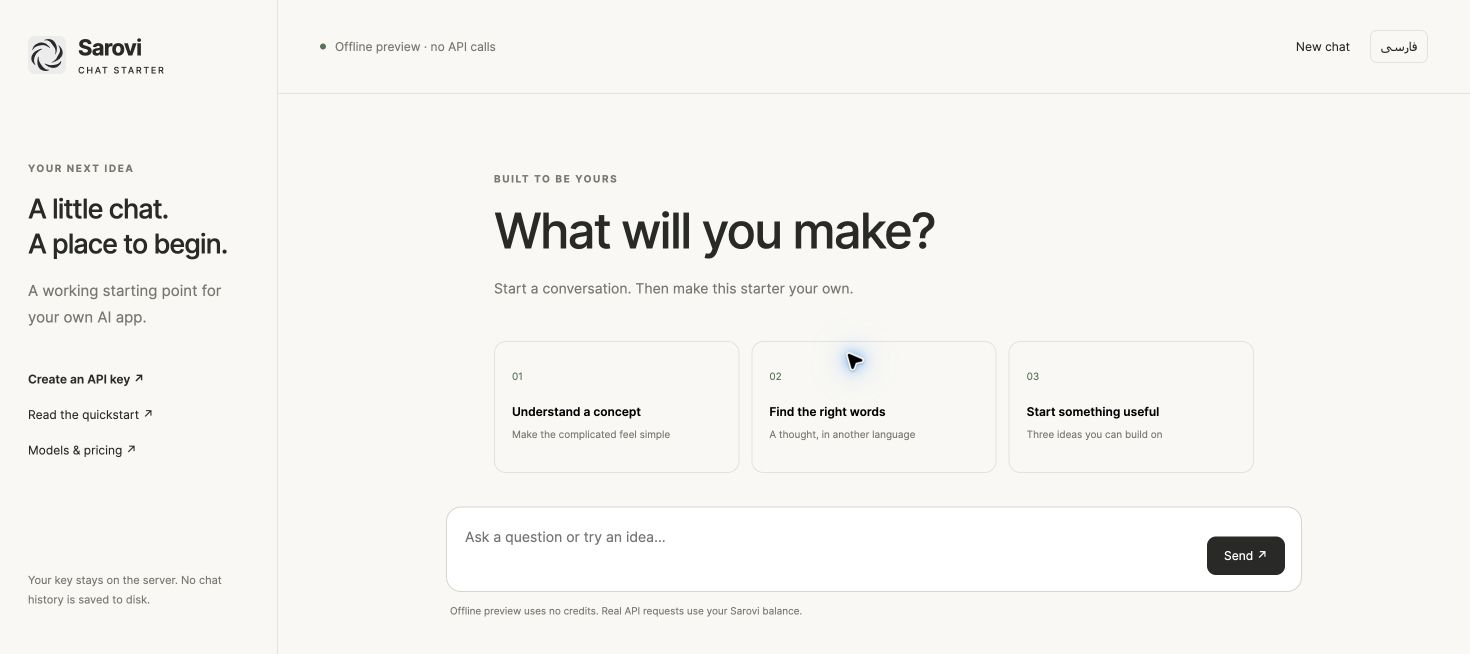
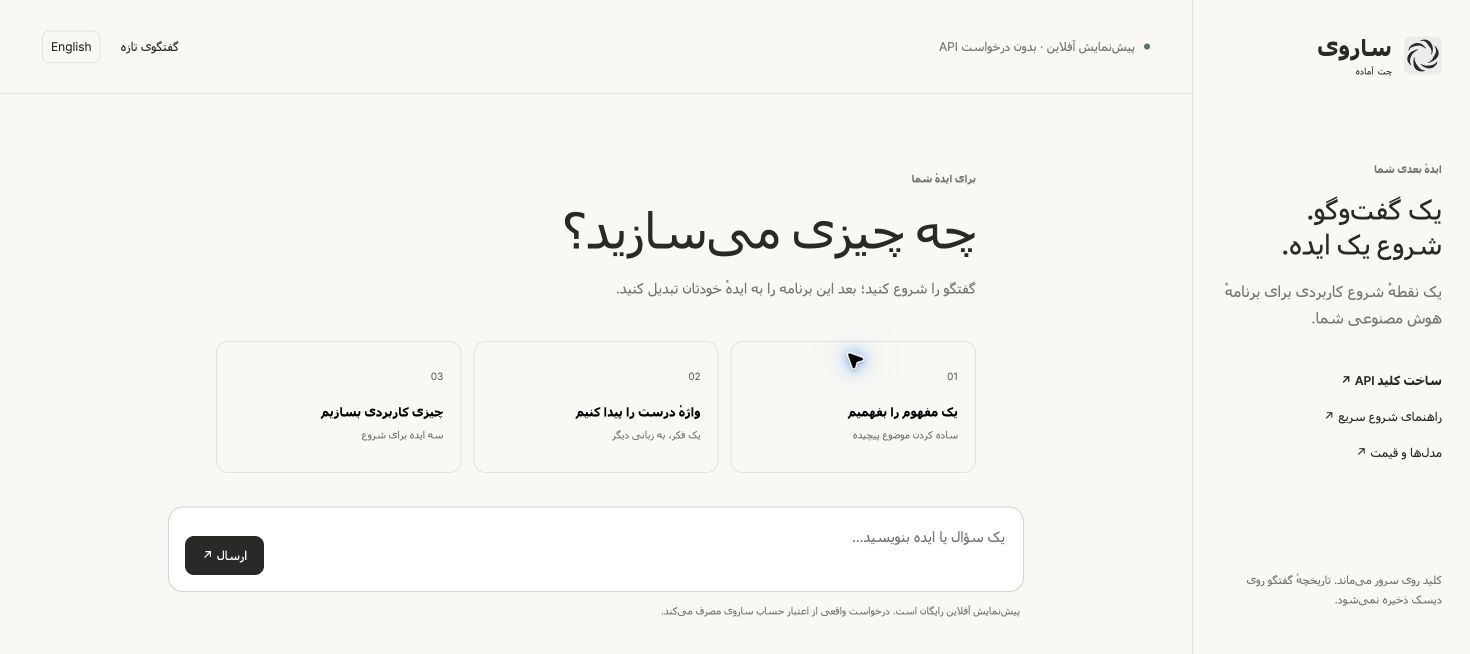
فارسیسازی معرفی، راهنماها و رابط پیشفرض

diff --git a/public/index.html b/public/index.html
@@ -1,41 +1,42 @@
 <!doctype html>
-<html lang="en" dir="ltr">
+<html lang="fa" dir="rtl">
 <head>
   <meta charset="utf-8"><meta name="viewport" content="width=device-width,initial-scale=1">
-  <title>Sarovi · Chat starter</title>
-  <meta name="description" content="A small bilingual streaming chat app built with the Sarovi API.">
+  <title>چت آمادهٔ ساروی</title>
+  <meta name="description" content="یک برنامهٔ چت فارسی با پاسخ زنده و API ساروی.">
   <link rel="icon" href="/mark.svg"><link rel="stylesheet" href="/style.css">
 </head>
 <body>
   <aside>
-    <a class="brand" href="/" aria-label="Sarovi chat home"><img src="/mark.svg" alt="" width="38" height="38"><strong>Sarovi<span>CHAT STARTER</span></strong></a>
-    <div class="side-copy"><span class="eyebrow" data-en="YOUR NEXT IDEA" data-fa="ایدهٔ بعدی شما">YOUR NEXT IDEA</span><h2 data-en="A little chat.&#10;A place to begin." data-fa="یک گفتوگو.&#10;شروع یک ایده.">A little chat.&#10;A place to begin.</h2><p data-en="A working starting point for your own AI app." data-fa="یک نقطهٔ شروع کاربردی برای برنامهٔ هوش مصنوعی شما.">A working starting point for your own AI app.</p></div>
-    <nav aria-label="Developer resources">
-      <a href="https://api.sarovi.site/developers/start?utm_source=github&utm_medium=organic&utm_campaign=developer_tools_202610&utm_content=chat_starter_key" target="_blank" rel="noopener" class="key-link" data-en="Create an API key ↗" data-fa="ساخت کلید API ↗">Create an API key ↗</a>
-      <a href="https://api.sarovi.site/developers/docs/quickstart?utm_source=github&utm_medium=organic&utm_campaign=developer_tools_202610&utm_content=chat_starter_docs" target="_blank" rel="noopener" data-en="Read the quickstart ↗" data-fa="راهنمای شروع سریع ↗">Read the quickstart ↗</a>
-      <a href="https://api.sarovi.site/developers/pricing?utm_source=github&utm_medium=organic&utm_campaign=developer_tools_202610&utm_content=chat_starter_pricing" target="_blank" rel="noopener" data-en="Models & pricing ↗" data-fa="مدلها و قیمت ↗">Models & pricing ↗</a>
+    <a class="brand" href="/" aria-label="خانهٔ چت ساروی"><img src="/mark.svg" alt="" width="38" height="38"><strong>ساروی<span>چت آماده</span></strong></a>
+    <div class="side-copy"><span class="eyebrow" data-en="YOUR NEXT IDEA" data-fa="ایدهٔ بعدی شما">ایدهٔ بعدی شما</span><h2 data-en="A little chat.&#10;A place to begin." data-fa="یک گفتوگو.&#10;شروع یک ایده.">یک گفتوگو.
+شروع یک ایده.</h2><p data-en="A working starting point for your own AI app." data-fa="یک نقطهٔ شروع کاربردی برای برنامهٔ هوش مصنوعی شما.">یک نقطهٔ شروع کاربردی برای برنامهٔ هوش مصنوعی شما.</p></div>
+    <nav aria-label="راهنمای توسعهدهندگان">
+      <a href="https://api.sarovi.site/developers/start?utm_source=github&utm_medium=organic&utm_campaign=developer_tools_202610&utm_content=chat_starter_key" target="_blank" rel="noopener" class="key-link" data-en="Create an API key ↗" data-fa="ساخت کلید API ↗">ساخت کلید API ↗</a>
+      <a href="https://api.sarovi.site/developers/docs/quickstart?utm_source=github&utm_medium=organic&utm_campaign=developer_tools_202610&utm_content=chat_starter_docs" target="_blank" rel="noopener" data-en="Read the quickstart ↗" data-fa="راهنمای شروع سریع ↗">راهنمای شروع سریع ↗</a>
+      <a href="https://api.sarovi.site/developers/pricing?utm_source=github&utm_medium=organic&utm_campaign=developer_tools_202610&utm_content=chat_starter_pricing" target="_blank" rel="noopener" data-en="Models & pricing ↗" data-fa="مدلها و قیمت ↗">مدلها و قیمت ↗</a>
     </nav>
-    <p class="side-foot" data-en="Your key stays on the server. No chat history is saved to disk." data-fa="کلید روی سرور میماند. تاریخچهٔ گفتگو روی دیسک ذخیره نمیشود.">Your key stays on the server. No chat history is saved to disk.</p>
+    <p class="side-foot" data-en="Your key stays on the server. No chat history is saved to disk." data-fa="کلید روی سرور میماند. تاریخچهٔ گفتگو روی دیسک ذخیره نمیشود.">کلید روی سرور میماند. تاریخچهٔ گفتگو روی دیسک ذخیره نمیشود.</p>
   </aside>
   <main>
-    <header><div><span class="dot"></span><span id="mode" role="status">Loading…</span></div><div class="header-actions"><button id="new-chat" class="quiet" data-en="New chat" data-fa="گفتگوی تازه">New chat</button><button id="language" class="language" aria-label="Switch language">فارسی</button></div></header>
-    <section class="conversation" aria-label="Chat">
+    <header><div><span class="dot"></span><span id="mode" role="status">در حال آمادهسازی…</span></div><div class="header-actions"><button id="new-chat" class="quiet" data-en="New chat" data-fa="گفتگوی تازه">گفتگوی تازه</button><button id="language" class="language" aria-label="تغییر زبان">English</button></div></header>
+    <section class="conversation" aria-label="گفتگو">
       <div id="welcome" class="welcome">
-        <span class="eyebrow" data-en="BUILT TO BE YOURS" data-fa="برای ایدهٔ شما">BUILT TO BE YOURS</span>
-        <h1 data-en="What will you make?" data-fa="چه چیزی میسازید؟">What will you make?</h1>
-        <p data-en="Start a conversation. Then make this starter your own." data-fa="گفتگو را شروع کنید؛ بعد این برنامه را به ایدهٔ خودتان تبدیل کنید.">Start a conversation. Then make this starter your own.</p>
+        <span class="eyebrow" data-en="BUILT TO BE YOURS" data-fa="برای ایدهٔ شما">برای ایدهٔ شما</span>
+        <h1 data-en="What will you make?" data-fa="چه چیزی میسازید؟">چه چیزی میسازید؟</h1>
+        <p data-en="Start a conversation. Then make this starter your own." data-fa="گفتگو را شروع کنید؛ بعد این برنامه را به ایدهٔ خودتان تبدیل کنید.">گفتگو را شروع کنید؛ بعد این برنامه را به ایدهٔ خودتان تبدیل کنید.</p>
         <div class="suggestions">
-          <button data-prompt-en="Explain API keys to someone building their first app." data-prompt-fa="کلید API را برای کسی که اولین برنامهاش را میسازد توضیح بده."><span>01</span><strong data-en="Understand a concept" data-fa="یک مفهوم را بفهمیم">Understand a concept</strong><small data-en="Make the complicated feel simple" data-fa="ساده کردن موضوع پیچیده">Make the complicated feel simple</small></button>
-          <button data-prompt-en="Translate into Persian: Good tools make room for better ideas." data-prompt-fa="این جمله را به انگلیسی ترجمه کن: ابزار خوب، جا را برای ایدهٔ بهتر باز میکند."><span>02</span><strong data-en="Find the right words" data-fa="واژهٔ درست را پیدا کنیم">Find the right words</strong><small data-en="A thought, in another language" data-fa="یک فکر، به زبانی دیگر">A thought, in another language</small></button>
-          <button data-prompt-en="Give me three small useful projects I can build with an AI API." data-prompt-fa="سه پروژهٔ کوچک و کاربردی پیشنهاد بده که با API هوش مصنوعی بسازم."><span>03</span><strong data-en="Start something useful" data-fa="چیزی کاربردی بسازیم">Start something useful</strong><small data-en="Three ideas you can build on" data-fa="سه ایده برای شروع">Three ideas you can build on</small></button>
+          <button data-prompt-en="Explain API keys to someone building their first app." data-prompt-fa="کلید API را برای کسی که اولین برنامهاش را میسازد توضیح بده."><span>01</span><strong data-en="Understand a concept" data-fa="یک مفهوم را بفهمیم">یک مفهوم را بفهمیم</strong><small data-en="Make the complicated feel simple" data-fa="ساده کردن موضوع پیچیده">ساده کردن موضوع پیچیده</small></button>
+          <button data-prompt-en="Translate into Persian: Good tools make room for better ideas." data-prompt-fa="این جمله را به انگلیسی ترجمه کن: ابزار خوب، جا را برای ایدهٔ بهتر باز میکند."><span>02</span><strong data-en="Find the right words" data-fa="واژهٔ درست را پیدا کنیم">واژهٔ درست را پیدا کنیم</strong><small data-en="A thought, in another language" data-fa="یک فکر، به زبانی دیگر">یک فکر، به زبانی دیگر</small></button>
+          <button data-prompt-en="Give me three small useful projects I can build with an AI API." data-prompt-fa="سه پروژهٔ کوچک و کاربردی پیشنهاد بده که با API هوش مصنوعی بسازم."><span>03</span><strong data-en="Start something useful" data-fa="چیزی کاربردی بسازیم">چیزی کاربردی بسازیم</strong><small data-en="Three ideas you can build on" data-fa="سه ایده برای شروع">سه ایده برای شروع</small></button>
         </div>
       </div>
-      <div id="messages" role="log" aria-label="Messages" aria-live="polite"></div>
+      <div id="messages" role="log" aria-label="پیامها" aria-live="polite"></div>
     </section>
     <div class="composer-wrap">
-      <label id="password-wrap" hidden><span data-en="App password" data-fa="رمز برنامه">App password</span><input id="password" type="password" autocomplete="off"></label>
-      <form id="composer"><label class="sr-only" for="prompt" data-en="Your message" data-fa="پیام شما">Your message</label><textarea id="prompt" rows="2" maxlength="4000" placeholder="Ask a question or try an idea…" required></textarea><button id="send" type="submit" data-en="Send ↗" data-fa="ارسال ↗">Send ↗</button><button id="stop" type="button" hidden data-en="Stop" data-fa="توقف">Stop</button></form>
-      <div class="below"><span id="hint">Offline preview uses no credits. Real API requests use your Sarovi balance.</span><span id="usage"></span></div>
+      <label id="password-wrap" hidden><span data-en="App password" data-fa="رمز برنامه">رمز برنامه</span><input id="password" type="password" autocomplete="off"></label>
+      <form id="composer"><label class="sr-only" for="prompt" data-en="Your message" data-fa="پیام شما">پیام شما</label><textarea id="prompt" rows="2" maxlength="4000" placeholder="یک سؤال یا ایده بنویسید…" required></textarea><button id="send" type="submit" data-en="Send ↗" data-fa="ارسال ↗">ارسال ↗</button><button id="stop" type="button" hidden data-en="Stop" data-fa="توقف">توقف</button></form>
+      <div class="below"><span id="hint">پیشنمایش آفلاین رایگان است. درخواست واقعی از اعتبار حساب ساروی مصرف میکند.</span><span id="usage"></span></div>
       <p id="notice" role="status"></p>
     </div>
   </main>

diff --git a/public/app.js b/public/app.js
@@ -1,5 +1,5 @@
 const $ = id => document.getElementById(id);
-let locale = 'en', config, history = [], controller, busy = false;
+let locale = 'fa', config, history = [], controller, busy = false;
 function translate() {
   document.documentElement.lang = locale;
   document.documentElement.dir = locale === 'fa' ? 'rtl' : 'ltr';
@@ -11,7 +11,7 @@ function translate() {
 }
 function message(role, text) {
   const row = document.createElement('div'); row.className = 'message ' + role;
-  const label = document.createElement('span'); label.className = 'who'; label.textContent = role === 'user' ? (locale === 'en' ? 'YOU' : 'شما') : 'SAROVI';
+  const label = document.createElement('span'); label.className = 'who'; label.textContent = role === 'user' ? (locale === 'en' ? 'YOU' : 'شما') : 'ساروی';
   const body = document.createElement('div'); body.dir = 'auto'; body.textContent = text;
   row.append(label, body); $('messages').append(row); return {row, body};
 }
@@ -54,23 +54,25 @@ $('composer').onsubmit = async event => {
     const response = await fetch('/api/chat', {method: 'POST', signal: controller.signal,
       headers: {'Content-Type': 'application/json', ...($('password').value ? {'X-App-Password': $('password').value} : {})},
       body: JSON.stringify({messages: next})});
-    if (!response.ok) { const data = await response.json(); throw new Error(data.error || 'Request failed.'); }
+    if (!response.ok) { const data = await response.json(); throw new Error(data.error || (locale === 'fa' ? 'درخواست انجام نشد.' : 'Request failed.')); }
     for await (const item of events(response.body)) {
       if (item.type === 'start') key = item.idempotency_key;
       if (item.type === 'receipt') requestId = item.request_id;
       if (item.type === 'delta') { reply.body.textContent += item.text; scrollEnd(); }
       if (item.type === 'error') { requestId = item.request_id || requestId; throw new Error(item.message); }
-      if (item.type === 'done') { completed = true; $('usage').textContent = item.demo ? 'DEMO' : (item.usage?.total_tokens ?? '—') + ' tokens'; }
+      if (item.type === 'done') { completed = true; $('usage').textContent = item.demo ? (locale === 'fa' ? 'نمایشی' : 'DEMO') : (item.usage?.total_tokens ?? '—') + (locale === 'fa' ? ' توکن' : ' tokens'); }
     }
     if (!completed) throw new Error(locale === 'en' ? 'The response ended early.' : 'پاسخ پیش از پایان قطع شد.');
     history = [...next, {role: 'assistant', content: reply.body.textContent}];
   } catch (error) {
     reply.row.classList.add('error');
     $('notice').textContent = (error.name === 'AbortError' ? (locale === 'en' ? 'Stopped. No automatic retry was made.' : 'متوقف شد. درخواست خودکار تکرار نشده است.') : error.message) +
-      (requestId ? ' · Request: ' + requestId : '') + (key ? ' · Idempotency: ' + key : '');
+      (requestId ? ' · درخواست: ' + requestId : '') + (key ? ' · کلید پیگیری: ' + key : '');
     if (!reply.body.textContent) reply.body.textContent = locale === 'en' ? 'No complete response.' : 'پاسخ کامل دریافت نشد.';
   } finally { setBusy(false); $('prompt').focus(); scrollEnd(); }
 };
 fetch('/api/config').then(r => { if (!r.ok) throw new Error(); return r.json(); }).then(data => {
   config = data; $('password-wrap').hidden = !data.requiresPassword; translate();
-}).catch(() => { $('mode').textContent = 'App unavailable'; $('notice').textContent = 'The local app could not load its configuration.'; });
+}).catch(() => { $('mode').textContent = 'برنامه در دسترس نیست'; $('notice').textContent = 'تنظیمات برنامهٔ محلی بارگذاری نشد.'; });
+
+translate();

diff --git a/README.md b/README.md
@@ -1,14 +1,14 @@
-# Sarovi AI chat starter
+# چت آماده با API ساروی
 
-A small working chat app with streaming replies, Persian/English UI, a server-side API key, and an offline preview. Plain Node.js, HTML, CSS, and JavaScript. No frontend build step or runtime package dependencies.
+یک برنامهٔ چت کوچک و کاربردی با پاسخ زنده، رابط فارسی، کلید روی سرور و پیشنمایش آفلاین؛ با Node.js، HTML، CSS و JavaScript، بدون مرحلهٔ ساخت رابط یا کتابخانهٔ اضافی.
 
-[فارسی](README.fa.md) · [Create an API key](https://api.sarovi.site/developers/start?utm_source=github&utm_medium=organic&utm_campaign=developer_tools_202610&utm_content=sarovi-ai-chat-starter_key) · [Pricing](https://api.sarovi.site/developers/pricing?utm_source=github&utm_medium=organic&utm_campaign=developer_tools_202610&utm_content=sarovi-ai-chat-starter_pricing)
+[ساخت کلید API](https://api.sarovi.site/developers/start?utm_source=github&utm_medium=organic&utm_campaign=developer_tools_202610&utm_content=sarovi-ai-chat-starter_key_fa) · [مدلها و قیمتها](https://api.sarovi.site/developers/pricing?utm_source=github&utm_medium=organic&utm_campaign=developer_tools_202610&utm_content=sarovi-ai-chat-starter_pricing_fa) · [اولین درخواست](https://api.sarovi.site/developers/start?utm_source=github&utm_medium=organic&utm_campaign=developer_tools_202610&utm_content=sarovi-ai-chat-starter_first_request_fa)
 
-![Offline chat starter preview](docs/preview.png)
+![پیشنمایش فارسی برنامه](docs/preview.png)
 
-## Try the offline preview
+## اول آفلاین امتحان کنید
 
-Node.js 24+ is required.
+Node.js نسخهٔ ۲۴ به بالا لازم است.
 
 ```sh
 git clone https://github.com/sarovi-developers/sarovi-ai-chat-starter.git
@@ -16,32 +16,32 @@ cd sarovi-ai-chat-starter
 npm run demo
 ```
 
-Open [http://127.0.0.1:3317](http://127.0.0.1:3317). Switch to فارسی, try a prompt, or stop a streaming reply. Demo responses are clearly labeled and make no model calls.
+نشانی [http://127.0.0.1:3317](http://127.0.0.1:3317) را باز کنید. پاسخهای نمایشی ساختگی و مشخصاند؛ به مدل درخواست نمیفرستند و اعتبار مصرف نمیکنند. رابط با فارسی و چیدمان راستبهچپ باز میشود؛ تغییر زبان هم در دسترس است.
 
-## Connect your account
+## اتصال حساب ساروی
 
 ```sh
 cp .env.example .env
-# Edit .env and set SAROVI_API_KEY.
+# کلید خصوصی ساروی را در .env وارد کنید.
 npm start
 ```
 
-The key needs `responses:write`. Check the current model ID and pricing, and set a small API key/project budget in the Sarovi console. Each reply allows up to 512 output tokens; this is not a monetary cap.
+کلید به دسترسی `responses:write` نیاز دارد. شناسهٔ فعلی مدل و قیمت آن را بررسی کنید و در کنسول ساروی برای کلید یا پروژه سقف مصرف کوچکی بگذارید. هر پاسخ حداکثر ۵۱۲ توکن خروجی دارد؛ این عدد سقف پولی نیست.
 
-The API key stays on the Node server. Conversation context stays in browser memory and is cleared by New chat or a page reload. Real prompts are sent to Sarovi and its model provider; API retention follows your account/provider settings.
+کلید روی سرور Node میماند و به کد مرورگر فرستاده نمیشود. تاریخچه در حافظهٔ صفحه نگه داشته میشود و با گفتگوی تازه یا بارگذاری مجدد پاک میشود. در حالت واقعی، پیامها به ساروی و ارائهدهندهٔ مدل ارسال میشوند؛ نگهداری داده به تنظیمات پروژه و ارائهدهنده بستگی دارد.
 
-## What is included
+## امکانات نمونه
 
-- Responsive UI with Persian RTL and English.
-- Stream stop, errors, request references, and token usage when supplied.
-- No automatic paid retries or generation on page load.
-- Bound conversation size, two concurrent requests, and ten requests per minute per connection IP.
-- Same-origin and Host checks; no key in public assets or config responses.
-- Rendering as text, so model-generated HTML is not executed.
+- رابط مناسب موبایل و رایانه، با فارسی و چیدمان راستبهچپ.
+- توقف پاسخ زنده، نمایش خطا و شناسهٔ پیگیری و تعداد توکن در صورت دریافت.
+- بدون تولید پاسخ هنگام باز شدن صفحه یا تکرار خودکار درخواست پولی.
+- زمینهٔ گفتگو محدود، حداکثر دو درخواست همزمان و ده درخواست در دقیقه برای هر IP اتصال.
+- بررسی میزبان و مبدأ درخواست؛ کلید در فایل عمومی یا پاسخ تنظیمات نیست.
+- نمایش پاسخ مدل بهصورت متن؛ کد HTML تولیدشده اجرا نمیشود.
 
-## Hosting
+## اجرای اینترنتی
 
-For internet hosting, keep HTTPS in front of the app and configure server-side environment variables:
+برای اجرای اینترنتی، HTTPS را جلوی برنامه قرار دهید و متغیرهای سمت سرور را تنظیم کنید:
 
 ```text
 HOST=0.0.0.0
@@ -50,16 +50,16 @@ PUBLIC_ORIGIN=https://YOUR_APP_DOMAIN
 APP_PASSWORD=YOUR_OWN_LONG_RANDOM_PASSWORD
 ```
 
-Hosted mode requires an app password of at least 16 characters. Enter it in the app; it is held in the page, not local storage. Keep it private. The built-in counters are per process and reset on restart; add shared user authentication and durable rate/budget controls before scaling a public service. No hosting service is provisioned automatically. [Sarovi Cloud](https://cloud.sarovi.ir) is available for your own deployment workflow.
+در حالت میزبانی، رمز برنامه باید حداقل ۱۶ نویسه داشته باشد. رمز را در رابط وارد کنید؛ در حافظهٔ صفحه میماند و در ذخیرهسازی محلی مرورگر ثبت نمیشود. شمارندههای سادهٔ این نمونه برای هر پردازش جدا هستند و با راهاندازی مجدد صفر میشوند. پیش از رشد یک سرویس عمومی، احراز هویت کاربران و محدودیت مصرف پایدار اضافه کنید. این مخزن خودکار سرویس میزبانی ایجاد نمیکند؛ [ابر ساروی](https://cloud.sarovi.ir) برای گردش کار میزبانی در دسترس است.
 
-## Checks
+## بررسی کد
 
 ```sh
 npm test
 ```
 
-Offline HTTP tests check key exposure, cross-origin/Host denial, app-password gating, bounded input, and premature upstream termination. They do not certify every live model.
+آزمونهای HTTP آفلاین، افشای کلید، رد مبدأ و میزبان نامعتبر، رمز برنامه، محدودیت ورودی و پایان ناقص پاسخ را بررسی میکنند. همهٔ مدلهای زنده با این آزمونها تأیید نشدهاند.
 
-[First API request guide](https://api.sarovi.site/developers/start?utm_source=github&utm_medium=organic&utm_campaign=developer_tools_202610&utm_content=sarovi-ai-chat-starter_first_request) · [More recipes](https://github.com/sarovi-developers/sarovi-api-cookbook) · [API behavior and billing](docs/API-NOTES.md)
+[نمونهکدهای بیشتر](https://github.com/sarovi-developers/sarovi-api-cookbook) · [رفتار API و هزینه](docs/API-NOTES.md)
 
-MIT-licensed code; API usage is billed separately. The Sarovi logo remains brand artwork.
+کد با مجوز [MIT](LICENSE.fa.md) منتشر شده است؛ مصرف API جداگانه محاسبه میشود و حقوق نشان ساروی جداست.

diff --git a/README.fa.md b/README.fa.md
@@ -1,12 +1,14 @@
 # چت آماده با API ساروی
 
-یک برنامهٔ چت کوچک و کاربردی: پاسخ زنده، رابط فارسی و انگلیسی، کلید روی سرور و پیشنمایش آفلاین.
+یک برنامهٔ چت کوچک و کاربردی با پاسخ زنده، رابط فارسی، کلید روی سرور و پیشنمایش آفلاین؛ با Node.js، HTML، CSS و JavaScript، بدون مرحلهٔ ساخت رابط یا کتابخانهٔ اضافی.
 
-[English](README.md) · [ساخت کلید API](https://api.sarovi.site/developers/start?utm_source=github&utm_medium=organic&utm_campaign=developer_tools_202610&utm_content=sarovi-ai-chat-starter_key_fa) · [قیمتها](https://api.sarovi.site/developers/pricing?utm_source=github&utm_medium=organic&utm_campaign=developer_tools_202610&utm_content=sarovi-ai-chat-starter_pricing_fa)
+[ساخت کلید API](https://api.sarovi.site/developers/start?utm_source=github&utm_medium=organic&utm_campaign=developer_tools_202610&utm_content=sarovi-ai-chat-starter_key_fa) · [مدلها و قیمتها](https://api.sarovi.site/developers/pricing?utm_source=github&utm_medium=organic&utm_campaign=developer_tools_202610&utm_content=sarovi-ai-chat-starter_pricing_fa) · [اولین درخواست](https://api.sarovi.site/developers/start?utm_source=github&utm_medium=organic&utm_campaign=developer_tools_202610&utm_content=sarovi-ai-chat-starter_first_request_fa)
 
-![پیشنمایش فارسی روی موبایل](docs/mobile-fa.png)
+![پیشنمایش فارسی برنامه](docs/preview.png)
 
-Node.js نسخهٔ ۲۴ به بالا لازم است؛ نصب کتابخانهٔ اضافی نیاز ندارد.
+## اول آفلاین امتحان کنید
+
+Node.js نسخهٔ ۲۴ به بالا لازم است.
 
 ```sh
 git clone https://github.com/sarovi-developers/sarovi-ai-chat-starter.git
@@ -14,14 +16,50 @@ cd sarovi-ai-chat-starter
 npm run demo
 ```
 
-نشانی `http://127.0.0.1:3317` را باز کنید. demo پاسخ ساختگی و مشخص دارد؛ درخواستی به مدل ارسال نمیشود و اعتبار مصرف نمیکند.
+نشانی [http://127.0.0.1:3317](http://127.0.0.1:3317) را باز کنید. پاسخهای نمایشی ساختگی و مشخصاند؛ به مدل درخواست نمیفرستند و اعتبار مصرف نمیکنند. رابط با فارسی و چیدمان راستبهچپ باز میشود؛ تغییر زبان هم در دسترس است.
 
-برای پاسخ واقعی، `.env.example` را به `.env` کپی کنید، کلید خصوصی ساروی را در آن بگذارید و `npm start` را اجرا کنید. دسترسی `responses:write` و سقف مصرف مناسب را در کنسول تنظیم کنید.
+## اتصال حساب ساروی
 
-تاریخچه در حافظهٔ همین صفحه میماند؛ با گفتگوی تازه یا بارگذاری مجدد پاک میشود. در حالت واقعی، پیامها به ساروی و ارائهدهندهٔ مدل فرستاده میشوند. کلید به کد مرورگر یا GitHub منتقل نمیشود.
+```sh
+cp .env.example .env
+# کلید خصوصی ساروی را در .env وارد کنید.
+npm start
+```
 
-دکمهٔ توقف، شناسهٔ پیگیری و خطای پاسخ ناقص آمادهاند. درخواست پولی خودکار تکرار نمیشود. پیش از استفادهٔ اینترنتی، [تنظیمات HTTPS و رمز برنامه](README.md#hosting) را انجام دهید. شمارندهٔ سادهٔ این نمونه جای احراز هویت و سقف مصرف پایدار یک سرویس عمومی را نمیگیرد.
+کلید به دسترسی `responses:write` نیاز دارد. شناسهٔ فعلی مدل و قیمت آن را بررسی کنید و در کنسول ساروی برای کلید یا پروژه سقف مصرف کوچکی بگذارید. هر پاسخ حداکثر ۵۱۲ توکن خروجی دارد؛ این عدد سقف پولی نیست.
 
-`npm test` آزمونهای آفلاین را اجرا میکند. [راهنمای اولین درخواست](https://api.sarovi.site/developers/start?utm_source=github&utm_medium=organic&utm_campaign=developer_tools_202610&utm_content=sarovi-ai-chat-starter_first_request_fa) · [نمونهکدهای بیشتر](https://github.com/sarovi-developers/sarovi-api-cookbook)
+کلید روی سرور Node میماند و به کد مرورگر فرستاده نمیشود. تاریخچه در حافظهٔ صفحه نگه داشته میشود و با گفتگوی تازه یا بارگذاری مجدد پاک میشود. در حالت واقعی، پیامها به ساروی و ارائهدهندهٔ مدل ارسال میشوند؛ نگهداری داده به تنظیمات پروژه و ارائهدهنده بستگی دارد.
 
-مجوز کد MIT است؛ مصرف API جداگانه محاسبه میشود.
+## امکانات نمونه
+
+- رابط مناسب موبایل و رایانه، با فارسی و چیدمان راستبهچپ.
+- توقف پاسخ زنده، نمایش خطا و شناسهٔ پیگیری و تعداد توکن در صورت دریافت.
+- بدون تولید پاسخ هنگام باز شدن صفحه یا تکرار خودکار درخواست پولی.
+- زمینهٔ گفتگو محدود، حداکثر دو درخواست همزمان و ده درخواست در دقیقه برای هر IP اتصال.
+- بررسی میزبان و مبدأ درخواست؛ کلید در فایل عمومی یا پاسخ تنظیمات نیست.
+- نمایش پاسخ مدل بهصورت متن؛ کد HTML تولیدشده اجرا نمیشود.
+
+## اجرای اینترنتی
+
+برای اجرای اینترنتی، HTTPS را جلوی برنامه قرار دهید و متغیرهای سمت سرور را تنظیم کنید:
+
+```text
+HOST=0.0.0.0
+PORT=8080
+PUBLIC_ORIGIN=https://YOUR_APP_DOMAIN
+APP_PASSWORD=YOUR_OWN_LONG_RANDOM_PASSWORD
+```
+
+در حالت میزبانی، رمز برنامه باید حداقل ۱۶ نویسه داشته باشد. رمز را در رابط وارد کنید؛ در حافظهٔ صفحه میماند و در ذخیرهسازی محلی مرورگر ثبت نمیشود. شمارندههای سادهٔ این نمونه برای هر پردازش جدا هستند و با راهاندازی مجدد صفر میشوند. پیش از رشد یک سرویس عمومی، احراز هویت کاربران و محدودیت مصرف پایدار اضافه کنید. این مخزن خودکار سرویس میزبانی ایجاد نمیکند؛ [ابر ساروی](https://cloud.sarovi.ir) برای گردش کار میزبانی در دسترس است.
+
+## بررسی کد
+
+```sh
+npm test
+```
+
+آزمونهای HTTP آفلاین، افشای کلید، رد مبدأ و میزبان نامعتبر، رمز برنامه، محدودیت ورودی و پایان ناقص پاسخ را بررسی میکنند. همهٔ مدلهای زنده با این آزمونها تأیید نشدهاند.
+
+[نمونهکدهای بیشتر](https://github.com/sarovi-developers/sarovi-api-cookbook) · [رفتار API و هزینه](docs/API-NOTES.md)
+
+کد با مجوز [MIT](LICENSE.fa.md) منتشر شده است؛ مصرف API جداگانه محاسبه میشود و حقوق نشان ساروی جداست.

diff --git a/docs/API-NOTES.md b/docs/API-NOTES.md
@@ -1,13 +1,13 @@
-# API notes
+# نکتههای اتصال و مصرف API
 
-Base URL: `https://api.sarovi.site/v1`. The original `https://api.sarovi.ir/v1` also works; choose one origin for a logical request. Use a Sarovi project key with `responses:write` and `models:read`. Receipt lookup additionally needs `usage:read`.
+نشانی پایه `https://api.sarovi.site/v1` است؛ `https://api.sarovi.ir/v1` هم کار میکند. برای هر درخواست منطقی، یکی از این نشانیها را انتخاب کنید. کلید پروژه باید دسترسی `responses:write` و برای فهرست مدلها `models:read` داشته باشد. پیگیری مصرف درخواست به `usage:read` نیاز دارد.
 
-The examples default to `z-ai/glm-5.3-flash`, present in the public API contract checked on 23 October 2026. Model availability, features, and pricing can change. Check `GET /v1/models` and the developer pricing page before a real run. Token limits bound output tokens, not a guaranteed monetary amount. Use a small project/key budget in the Sarovi console.
+مدل پیشفرض `z-ai/glm-5.3-flash` از قرارداد عمومی API بررسیشده در ۲۳ اکتبر ۲۰۲۶ انتخاب شده است. موجود بودن مدل، قابلیتها و قیمت میتواند تغییر کند. پیش از اجرای واقعی، `GET /v1/models` و صفحهٔ قیمتها را بررسی کنید. محدودیت توکن، سقف پولی نیست؛ در کنسول ساروی برای پروژه یا کلید سقف مصرف کوچکی بگذارید.
 
-Every paid operation has an `Idempotency-Key`. There are no automatic paid retries. If a response is lost, inspect the original request receipt instead of inventing a fresh key. JSON replay is documented for 24 hours and responses below 1 MB; an empty lookup result is not proof that the original operation was uncharged. A second model/tool round is a distinct operation.
+هر عملیات پولی یک `Idempotency-Key` دارد و خودکار تکرار نمیشود. اگر پاسخ قطع شد، مصرف همان درخواست را با کلید اصلی پیگیری کنید؛ ساختن کلید تازه به معنی عملیات تازه است. طبق مستندات، بازپخش پاسخ JSON برای ۲۴ ساعت و پاسخهای کوچکتر از ۱ مگابایت پشتیبانی میشود. نتیجهٔ خالی در پیگیری، ثابت نمیکند درخواست قبلی رایگان بوده است. دور دوم مدل پس از فراخوانی ابزار، یک درخواست مستقل است.
 
-HTTP 200 alone is not proof that generation completed. Streaming examples require the terminal marker and inspect the finish reason. Provider failures and truncated output remain errors. Reported tokens are not a reconstruction of the settled credit charge; use the Sarovi usage console for billing.
+وضعیت HTTP 200 بهتنهایی به معنی کامل شدن پاسخ نیست. نمونهٔ پاسخ زنده، علامت پایان و علت پایان را بررسی میکند؛ خطای ارائهدهنده و خروجی ناقص موفقیت شمرده نمیشوند. تعداد توکن گزارششده جای صورتحساب نهایی را نمیگیرد؛ برای هزینهٔ قطعی، مصرف را در کنسول ببینید.
 
-Demo mode uses local synthetic fixtures. It does not call a model, count as a successful API user, or produce real usage. Offline tests and public-contract checks do not certify every live model or external IDE integration.
+حالت `--demo` دادهٔ ساختگی محلی دارد: به مدل متصل نمیشود، اعتبار مصرف نمیکند و فعالسازی واقعی API به حساب نمیآید. آزمونهای آفلاین و بررسی قرارداد عمومی، به معنی تأیید همهٔ مدلهای زنده یا همهٔ محیطهای برنامهنویسی نیستند.
 
-For real mode, prompts and selected CSV cells are sent to Sarovi and the model provider. This starter does not add analytics or upload unrelated files. API/provider retention depends on your project and provider settings.
+در اجرای واقعی، پیامها و سلولهای انتخابشدهٔ CSV به ساروی و ارائهدهندهٔ مدل فرستاده میشوند. این نمونهها ابزار سنجش بازدید اضافه نمیکنند و فایل نامرتبط نمیفرستند. نگهداری داده در API و نزد ارائهدهنده به تنظیمات پروژه و مدل بستگی دارد.

diff --git a/CONTRIBUTING.md b/CONTRIBUTING.md
@@ -1,7 +1,7 @@
-# Contributing
+# مشارکت در توسعه
 
-Small, runnable improvements are welcome. Explain the problem, show the expected result, and run the offline checks in the README. Keep credentials, customer files, and provider responses out of issues and commits.
+بهبودهای کوچک و قابل اجرا را پیشنهاد کنید: مسئله را توضیح دهید، نتیجهٔ مورد انتظار را بنویسید و آزمونهای آفلاین معرفیشده در راهنما را اجرا کنید. کلیدها، فایل مشتری و پاسخ خصوصی ارائهدهنده را در گزارش خطا یا تغییرات کد نگذارید.
 
-Use synthetic fixtures in tests. Do not add tests that make paid API calls or depend on a maintainer's secret. Include Persian and English copy when changing the app's user interface.
+آزمونها باید از دادهٔ ساختگی استفاده کنند؛ آزمون پولی یا آزمونی که به کلید خصوصی نگهدارنده نیاز دارد اضافه نکنید. متن اصلی راهنما و رابط کاربری فارسی است. شناسهها، نام دستورات و قالب استاندارد API را تغییر ندهید.
 
-Report an error with its code, runtime version, and a redacted reproduction. Request IDs can help support, but never post a key or private prompt. These examples use a subset of Sarovi's documented API; avoid claiming full compatibility with an unrelated provider.
+برای گزارش خطا، کد خطا، نسخهٔ محیط اجرا و یک نمونهٔ کوچک بدون اطلاعات خصوصی بفرستید. شناسهٔ درخواست برای پشتیبانی مفید است؛ کلید یا پیام خصوصی را منتشر نکنید. این نمونهها بخشی از API مستند ساروی را پوشش میدهند؛ دربارهٔ سازگاری کامل با محصول دیگری ادعا نکنید.

diff --git a/LICENSE.fa.md b/LICENSE.fa.md
@@ -1,0 +1,9 @@
+# ترجمهٔ فارسی مجوز MIT
+
+حق نشر ۲۰۲۶ ساروی.
+
+به هر شخصی که نسخهای از این نرمافزار و مستندات همراه آن را دریافت کند، رایگان اجازه داده میشود بدون محدودیت از آن استفاده کند؛ از جمله استفاده، کپی، تغییر، ادغام، انتشار، توزیع، صدور مجوز فرعی و فروش نسخهها، و دادن همین اجازهها به دریافتکنندگان؛ مشروط بر اینکه اعلان حق نشر و متن اجازه در همهٔ نسخهها یا بخشهای اساسی نرمافزار حفظ شود.
+
+نرمافزار «همانگونه که هست» و بدون هیچ تضمین صریح یا ضمنی، از جمله تضمین فروشپذیری، تناسب برای هدف خاص و عدم نقض حقوق، ارائه میشود. نویسندگان یا صاحبان حق نشر در برابر هیچ ادعا، خسارت یا مسئولیتی ناشی از استفاده یا ارتباط با نرمافزار مسئول نیستند؛ خواه بر پایهٔ قرارداد، مسئولیت مدنی یا هر مبنای دیگر باشد.
+
+متن معیار و قابل شناسایی مجوز در فایل [LICENSE](LICENSE) نگه داشته شده است. این فایل ترجمهٔ توضیحی همان مجوز است. مصرف API جداگانه محاسبه میشود و نشان تجاری ساروی مجوز استفاده بهعنوان هویت محصول دیگری ندارد.

diff --git a/docs/SOURCES.md b/docs/SOURCES.md
@@ -1,11 +1,11 @@
-# Reference sources
+# منابع راهنما
 
-Checked 23 October 2026.
+بررسیشده در ۲۳ اکتبر ۲۰۲۶.
 
-- [Sarovi public OpenAPI contract](https://api.sarovi.site/openapi.json)
-- [Sarovi first request](https://api.sarovi.site/developers/docs/quickstart)
-- [Sarovi streaming](https://api.sarovi.site/developers/docs/streaming)
-- [Sarovi retries and receipts](https://api.sarovi.site/developers/docs/retries)
-- [Sarovi pricing](https://api.sarovi.site/developers/pricing)
+- [قرارداد عمومی API ساروی](https://api.sarovi.site/openapi.json)
+- [اولین درخواست](https://api.sarovi.site/developers/docs/quickstart)
+- [پاسخ زنده](https://api.sarovi.site/developers/docs/streaming)
+- [تکرار درخواست و پیگیری مصرف](https://api.sarovi.site/developers/docs/retries)
+- [مدلها و قیمتها](https://api.sarovi.site/developers/pricing)
 
-Examples are original code, tested with synthetic fixtures. External libraries and product names belong to their owners.
+کد نمونهها برای همین مجموعه نوشته شده و با دادهٔ ساختگی آزموده شده است. نام کتابخانهها و محصولات دیگر متعلق به صاحبان آنهاست.
